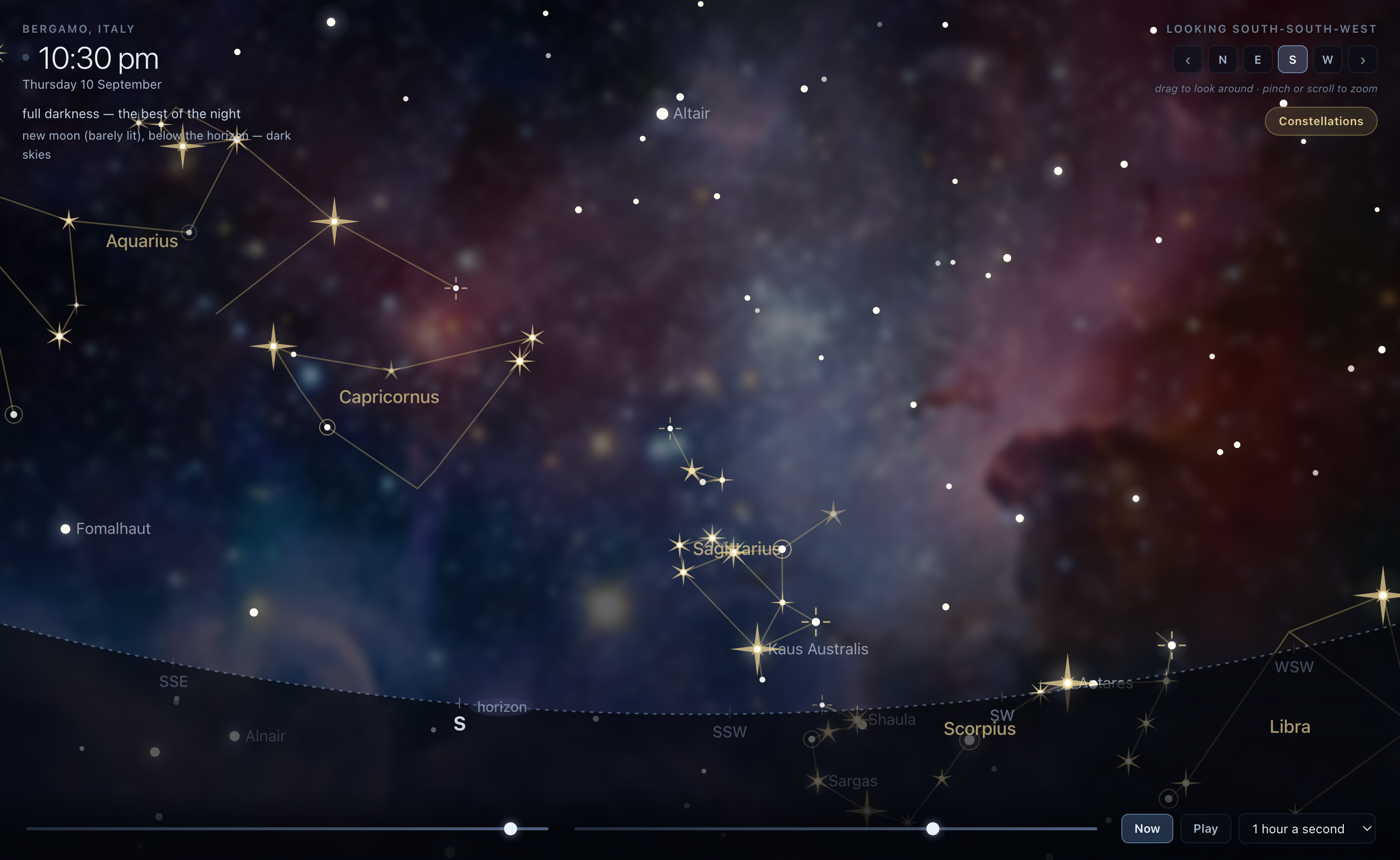
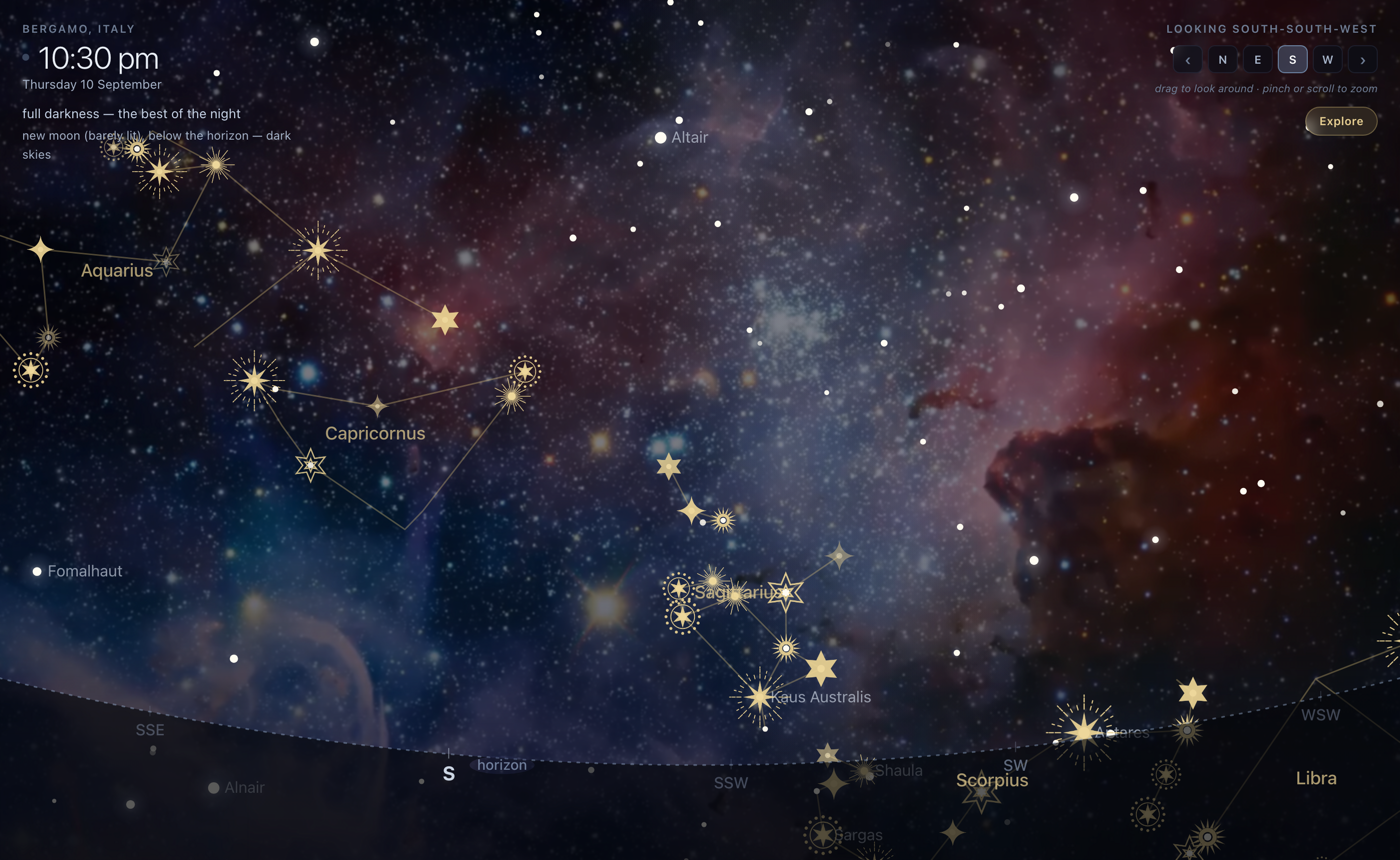
Use the supplied glyph artwork
Replaces the seven shapes I had drawn in code with the real artwork: a
six-point folk star in a dotted annulus, a double-outline twelve-point star, a
twelve-point star in a ringed dot circle, an eight-point burst with radiating
sparkle rays, a needle sparkle, a solid twelve-point star, and a four-point
curved sparkle. Every star of the seventeen told figures now carries its own
visual, which is what the design was after.

The artwork arrived exactly to spec — square viewBox centred on the star
position, currentColor, g4 drawn to outer radius 180 against the others' 100 —
so nothing had to be adapted. assets/glyphs/ keeps the SVGs as the source of
truth alongside 512px white PNGs.

The PNGs are what get drawn, for two reasons worth recording. An SVG loaded
through an <img> is a separate document and cannot inherit currentColor from
the page, so it could not be tinted gold and grey-blue. And <img> needs no
fetch, so the artwork also works when index.html is opened straight from disk,
where fetching local files is blocked.

Tinting keeps the artwork's alpha and replaces its colour via a source-in
composite into an offscreen canvas, cached per id and colour so it happens
seven times per palette rather than once per star per frame. Measured cost of
the whole glyph layer: 1.1ms per frame for 46 glyphs, against a 16.7ms budget.

Sizing needed no per-glyph cases. All seven share a 400-unit canvas and a
[…]

diff --git a/js/sky.js b/js/sky.js
@@ -397,8 +397,67 @@ const Sky = (() => {
   // anchored to an angular size: they are decorative accents on the chart, not
   // objects in the sky, so they hold a constant size on screen. Sizing them in
   // degrees instead made them swell into stickers as soon as you zoomed in.
-  const GLYPH_BASE_PX = 33;
-  const GLYPH_PX_MIN = 2.2, GLYPH_PX_MAX = 17;
+  const GLYPH_BASE_PX = 38;
+  const GLYPH_PX_MIN = 2.4, GLYPH_PX_MAX = 21;
+
+  /* --- the supplied artwork ------------------------------------------------ *
+   * assets/glyphs/ holds the real glyphs: SVG as the source of truth and a 512px
+   * white PNG of each for rendering. The PNGs are what get drawn, for two
+   * reasons: an SVG loaded through an <img> cannot inherit `currentColor` from the
+   * page, so it could not be tinted; and <img> needs no fetch, so the artwork also
+   * works when index.html is opened straight from disk, where fetching local files
+   * is blocked.
+   *
+   * Tinting keeps the artwork's alpha and replaces its colour, via a 'source-in'
+   * composite into an offscreen canvas — cached per id and colour, so it happens
+   * seven times per palette rather than once per star per frame.
+   */
+  const GLYPH_IDS = ['g1', 'g2', 'g3', 'g4', 'g5', 'g6', 'g7'];
+  const GLYPH_RASTER_PX = 256;   // ample: a glyph never draws wider than ~90px
+
+  const glyphArt = { started: false, ready: false, loaded: 0, failed: 0,
+                     raw: {}, tinted: new Map(), onReady: null };
+
+  /** Kick off loading. `onReady` fires once, so the sky can redraw with the art. */
+  function preloadGlyphs(onReady) {
+    if (glyphArt.started) return;
+    glyphArt.started = true;
+    glyphArt.onReady = onReady;
+    for (const id of GLYPH_IDS) {
+      const img = new Image();
+      img.onload = () => {
+        glyphArt.raw[id] = img;
+        settleGlyphLoad();
+      };
+      // A missing or broken file is not fatal: drawGlyph falls back to the shapes
+      // drawn in code, so the chart still works.
+      img.onerror = () => { glyphArt.failed++; settleGlyphLoad(); };
+      img.src = `assets/glyphs/png/${id}.png`;
+    }
+  }
+
+  function settleGlyphLoad() {
+    if (++glyphArt.loaded < GLYPH_IDS.length) return;
+    glyphArt.ready = glyphArt.failed === 0;
+    if (glyphArt.ready && glyphArt.onReady) glyphArt.onReady();
+  }
+
+  function tintedGlyph(id, colour) {
+    const key = `${id}|${colour}`;
+    const hit = glyphArt.tinted.get(key);
+    if (hit) return hit;
+    const img = glyphArt.raw[id];
+    if (!img) return null;
+    const c = document.createElement('canvas');
+    c.width = c.height = GLYPH_RASTER_PX;
+    const x = c.getContext('2d');
+    x.drawImage(img, 0, 0, GLYPH_RASTER_PX, GLYPH_RASTER_PX);
+    x.globalCompositeOperation = 'source-in';
+    x.fillStyle = colour;
+    x.fillRect(0, 0, GLYPH_RASTER_PX, GLYPH_RASTER_PX);
+    glyphArt.tinted.set(key, c);
+    return c;
+  }
 
   const glyphScaleFromMag = (mag) =>
     Math.max(0.16, Math.min(0.42, 0.42 - (mag - 0.85) * 0.055));
@@ -423,6 +482,21 @@ const Sky = (() => {
    * @param {number[]} tint constellation group colour
    */
   function drawGlyph(ctx, id, x, y, r, tint, alpha) {
+    // Real artwork if it loaded, otherwise the shapes drawn below.
+    const art = glyphArt.ready ? tintedGlyph(id, rgb(tint, 1)) : null;
+    if (art) {
+      // Every glyph shares a 400-unit canvas, and a glyph's outer radius is its
+      // glyphOuterRadius in those units. So if 100 units is r pixels, the canvas is
+      // 4r pixels square — the same for all seven, which is exactly how g4 comes
+      // out 1.8x the others without any special casing.
+      const size = 4 * r;
+      ctx.save();
+      ctx.globalAlpha = Math.min(1, alpha);
+      ctx.drawImage(art, x - size / 2, y - size / 2, size, size);
+      ctx.restore();
+      return;
+    }
+
     ctx.save();
     const line = rgb(tint, alpha);
     const core = `rgba(255,253,246,${Math.min(1, alpha * 1.15)})`;
@@ -845,5 +919,5 @@ const Sky = (() => {
   }
 
   return { render, pick, project, makeView, starRadius, galacticToEquatorial,
-           drawGlyph, glyphScaleFromMag, COMPASS };
+           drawGlyph, glyphScaleFromMag, preloadGlyphs, glyphArt, COMPASS };
 })();

diff --git a/js/app.js b/js/app.js
@@ -805,6 +805,8 @@
     fillLocationInputs();
     syncTimeInputs();
     wire();
+    // Redraw once the glyph artwork lands; until then the code-drawn shapes stand in.
+    Sky.preloadGlyphs(() => draw());
     draw();
     requestAnimationFrame(loop);
 

diff --git a/README.md b/README.md
@@ -188,36 +188,43 @@ to the constellations the file does not cover, and guarantees the intent — bri
 star always gets the big glyph. Where the two star selections coincide the ids agree;
 where this project's IAU figures carry more vertices the ranks legitimately differ.
 
-**The file carries no artwork**, only ids and radii, so the seven shapes are drawn in
-`js/sky.js` (`drawGlyph`), each in a unit space where `1.0` is the file's 100 units —
-so `g4` really does reach out to 1.8 and the spec's collision radii still hold.
-Dropping in real artwork means replacing those seven cases and nothing else.
+**The spec file carries no artwork**, only ids and radii; the artwork arrived
+separately and lives in `assets/glyphs/` — see below.
 
 Glyphs hold a constant size on screen rather than a constant angular size: they are
 accents on a chart, not objects in the sky, and sizing them in degrees made them
 swell into stickers the moment you zoomed in. Turn them off under *What you can see*.
 
-### Dropping in real artwork
+### The artwork
 
-`drawGlyph()` in `js/sky.js` has one `case` per glyph id, and that is the only place
-that needs to change. To supply artwork instead, put one file per id in
-`assets/glyphs/` named `g1` … `g7`. SVG is preferable — crisp at any zoom, tintable,
-about a kilobyte each — but PNG at 512×512 works.
+`assets/glyphs/` holds the real glyphs, supplied as part of the design:
 
-Either way:
+- `svg/g1.svg` … `g7.svg` — the source of truth. Square `viewBox="-200 -200 400 400"`,
+  artwork centred on (0,0), paths only, single colour via `currentColor`.
+- `png/g1.png` … — 512×512, transparent, white artwork, same centring.
+- `README.md` — the design's own notes on each glyph.
 
-- **Square canvas, artwork centred.** The centre of the image *is* the star's
-  position, so anything drawn off-centre will sit off its star.
-- **Transparent background.**
-- **One colour** (white or black), no baked-in hue — the renderer tints each glyph
-  gold for the zodiac and grey-blue for the circumpolar five.
-- **Consistent padding across all seven**, so `glyphOuterRadius` still describes the
-  art. `g4` is specified at 180 against everyone else's 100, so draw it 1.8× larger
-  *within the same canvas size* rather than letting each glyph fill its own canvas
-  edge to edge — otherwise they all come out the same size on screen.
+The **PNGs are what actually get drawn**, for two reasons. An SVG loaded through an
+`<img>` is a separate document and cannot inherit `currentColor` from the page, so it
+could not be tinted; and `<img>` needs no `fetch`, so the artwork also works when
+`index.html` is opened straight from disk, where fetching local files is blocked.
 
-For SVG, a square `viewBox` with paths only (no embedded raster, no `<image>`), and
-either plain white fills or `fill="currentColor"`.
+Tinting keeps the artwork's alpha and replaces its colour with a `source-in`
+composite into an offscreen canvas, cached per id and colour — so it happens seven
+times per palette rather than once per star per frame. The whole glyph layer costs
+about a millisecond a frame for fifty-odd glyphs.
+
+Sizing falls out of the shared canvas rather than needing per-glyph cases. All seven
+are drawn on the same 400-unit canvas, and a glyph's outer radius is its
+`glyphOuterRadius` in those units — so if 100 units is `r` pixels, the canvas is
+always `4r` pixels square, whichever glyph it is. That is exactly how `g4` comes out
+1.8× the others for free.
+
+If a glyph file is missing or fails to load, `drawGlyph()` falls back to shapes drawn
+in code, so the chart still works. To replace the artwork, drop in new files with the
+same names, keeping the centring and keeping the padding consistent across all seven
+(don't normalise each glyph to fill its own canvas, or they will all come out the
+same size on screen).
 
 ## The backdrop
 
@@ -294,6 +301,7 @@ data/constellations.json line figures plus the mythology content
 data/catalog.js          generated: both payloads as globals, so file:// works
 assets/backdrop.mp4      the backdrop loop
 assets/nebula.jpg        generated poster / fallback plate
+assets/glyphs/           star glyph artwork: svg source, png for rendering
 tools/build_data.py      the build script
 tools/mythology.json     the story content, edit this
 tools/star-glyphs.json   the glyph spec: ids, radii, size curve

diff --git a/assets/glyphs/README.md b/assets/glyphs/README.md
@@ -1,0 +1,26 @@
+# Star glyphs
+
+Seven glyph ids referenced by `glyph` on every star in `zodiac-constellations.json`.
+
+- `svg/g1.svg` … `g7.svg` — square `viewBox="-200 -200 400 400"`, artwork centred on (0,0), paths only, transparent, single colour via `currentColor` (set `color` on the SVG or a parent, or `fill`/`stroke` after stripping).
+- `png-512-white/g1.png` … — 512×512, transparent, white artwork, same centring.
+
+## Scale
+
+All glyphs share the canvas. `g4` is drawn to outer radius 180; the other six to 100 — matching `glyphOuterRadius` in the JSON. Do not normalise them to fill the canvas; the size difference is intentional (g4 marks the brightest star in each figure).
+
+To place a glyph so its outer radius equals R pixels on screen, draw the canvas at `400 * R / glyphOuterRadius[id]` pixels square, centred on the star's projected position.
+
+## Glyphs
+
+- `g1` (r 100) — six-point folk star in dotted annulus
+- `g2` (r 100) — double-outline twelve-point star
+- `g3` (r 100) — twelve-point star in ringed dot circle
+- `g4` (r 180) — eight-point burst with radiating sparkle rays (largest, outer radius 180)
+- `g5` (r 100) — needle sparkle, fine radiating rays
+- `g6` (r 100) — twelve-point solid star
+- `g7` (r 100) — four-point curved sparkle
+
+Assignment is by brightness rank within a constellation: rank 0 (brightest) → `g4`, then `g5`, `g3`, `g1`, `g2`, `g7`, `g6`, wrapping for figures with more than seven stars.
+
+Strokes are real path strokes in user units (no `vector-effect`), so they scale with the glyph.
